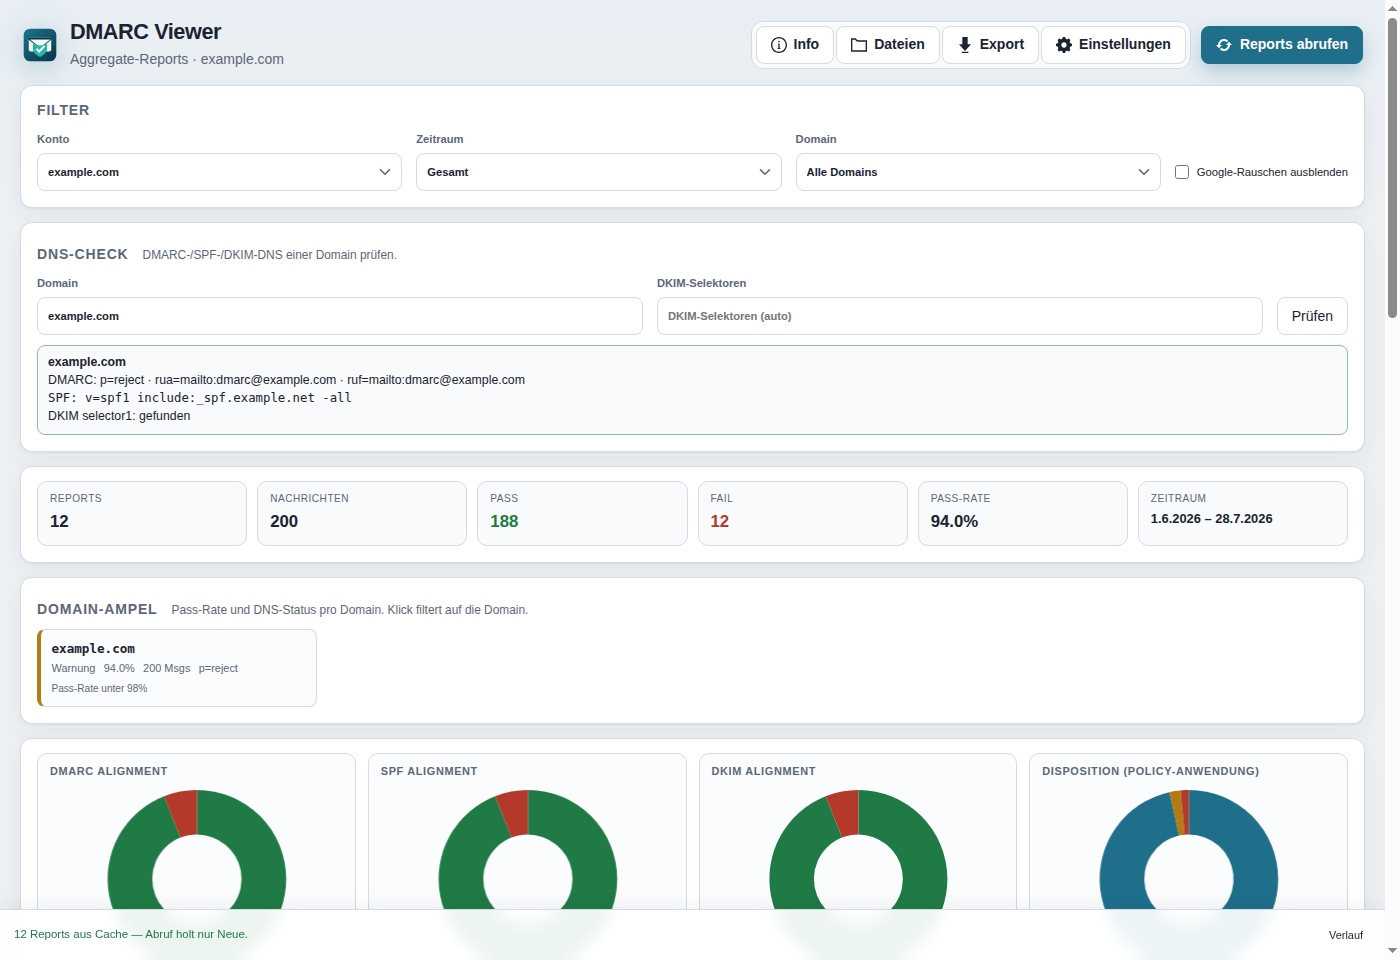
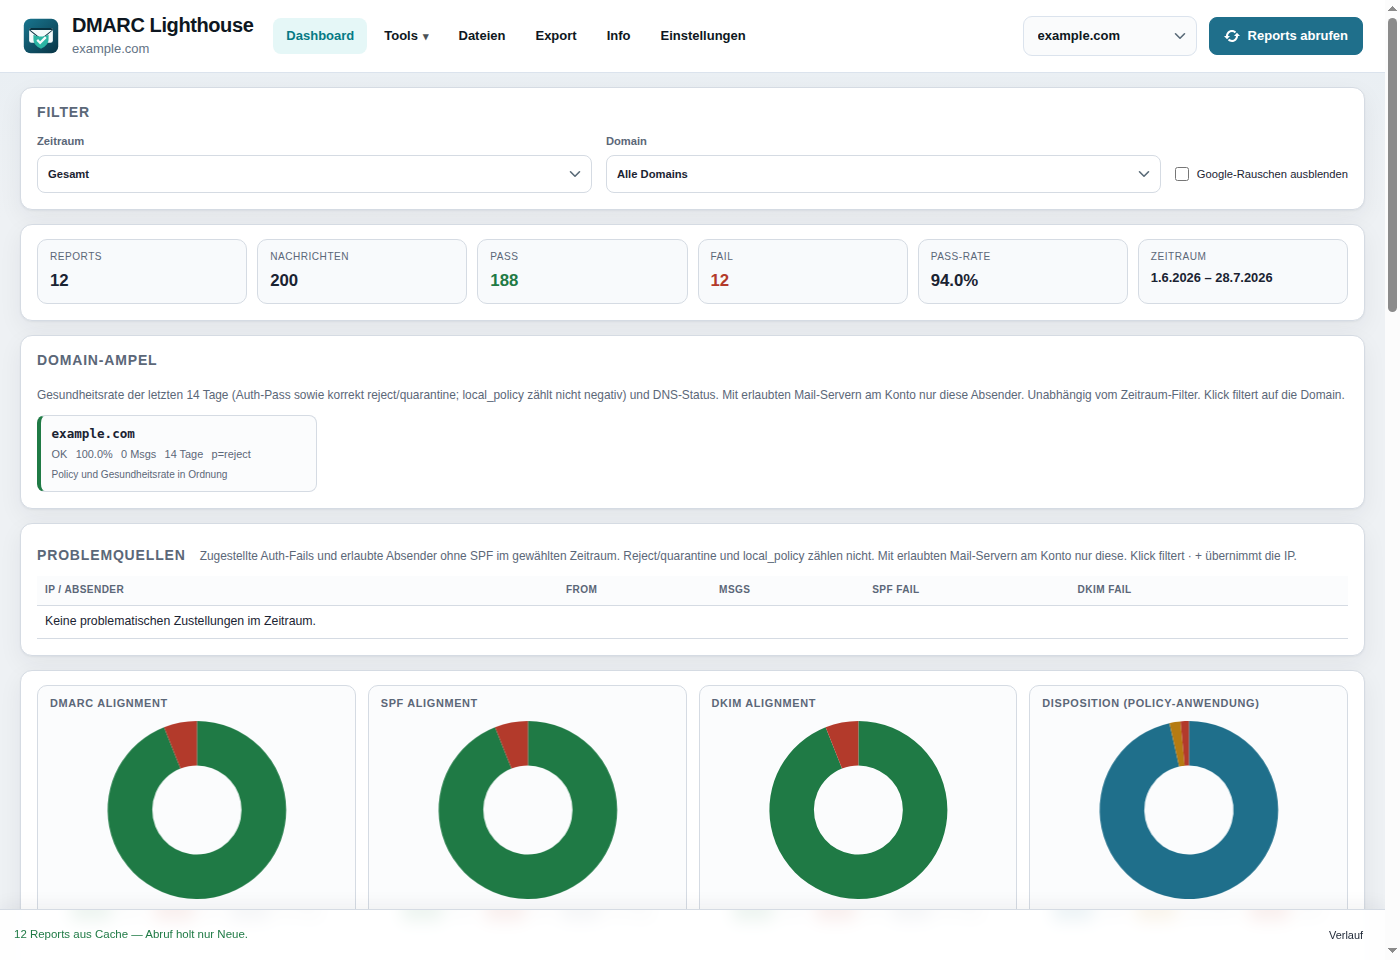
Release v1.0.16.
Ship account-management settings (setup vs. analysis options), refresh README screenshots, and bump the package version.

diff --git a/README.de.md b/README.de.md
@@ -70,7 +70,7 @@ Quell-IPs auf OpenStreetMap (GeoIP-Koordinaten); Klick auf einen Marker filtert 
 
 Mehrere IMAP-Konten, Abruf-/Archiv-Ordner, Auto-Abruf, Alerts, Anreicherung (GeoIP / DNSBL / RDAP), System-Tray und Sprache:
 
-![Einstellungen-Dialog mit IMAP-Konfiguration](docs/screenshots/settings.png)
+![Einstellungen-Dialog mit Konto-Verwaltung](docs/screenshots/settings.png)
 
 ---
 
@@ -137,13 +137,13 @@ Auto-Update greift in gepackten Builds (nicht im Dev-Modus). Portable-EXE und `.
    - Google Cloud Console → OAuth-Client-Typ „Desktop“
    - Microsoft Entra ID → App-Registrierung → öffentlicher Client, Redirect-URI `http://127.0.0.1:17893/oauth/callback`
 2. Client-IDs unter **Einstellungen → Abruf & Benachrichtigungen** eintragen oder `DMARC_GOOGLE_CLIENT_ID` / `DMARC_MS_CLIENT_ID` setzen.
-3. Beim IMAP-Konto **OAuth** wählen, speichern, dann **Mit Anbieter anmelden**.
+3. Unter **Konto-Verwaltung** → **Zugang einrichten** **OAuth** wählen, speichern, dann **Mit Anbieter anmelden**.
 
 ---
 
 ## Nutzung
 
-1. **Einstellungen** → **IMAP-Konto** öffnen, Anbieter/Host sowie App-Passwort oder OAuth setzen und speichern. Bei Bedarf weitere Konten anlegen.
+1. **Einstellungen** → **Konto-Verwaltung** öffnen, Anbieter/Host sowie App-Passwort oder OAuth setzen und speichern. Bei Bedarf weitere Konten anlegen.
 2. Optional eine kurze **Bezeichnung** setzen (leer = Domain der E-Mail-Adresse, z. B. `codemacher.de`). Bei Bedarf **Verbindung testen**. Unter **Abruf & Benachrichtigungen** OAuth-Client-IDs, Auto-Abruf, Alerts, System-Tray, Autostart und Sprache konfigurieren. Unter **Anreicherung** GeoLite2-Key/Download, optionalen Online-Geo-Fallback, DNSBL, Cloud-Ranges und RDAP einstellen.
 3. Im Hauptfenster **Reports abrufen** — oder XML/GZ/ZIP/EML per **Dateien** / Drag & Drop laden. Bei mehreren Konten über den Konto-Filter umschalten.
 4. Mit Zeitraum (inkl. benutzerdefiniert Von/Bis), Domain, Domain-Ampel oder per Klick auf Org-/IP-/From-Zeilen (oder Kartenmarker) eingrenzen; optional **Google-Rauschen ausblenden**, um Google-Report-Echo-Hops zu entfernen. Charts, Aggregate-Tabellen, Forensik-/RUF-Tabelle und Quellenkarte prüfen; bei Bedarf exportieren. Über ℹ an einer IP Geo/ASN/DNSBL und RDAP on-demand öffnen; einzelne Reports als ZIP laden.
@@ -236,7 +236,7 @@ GitHub Release (alle Plattformen via Actions): Tag wie `v1.0.7` pushen oder Work
 - Forensik-/RUF-Zeilen zeigen nur bereinigte Header — Nachrichteninhalte werden weder gespeichert noch angezeigt.
 - Nachrichten ohne gültigen DMARC-Anhang werden übersprungen und gezählt.
 - Einstellungen und Report-Caches liegen unter dem Electron-`userData`-Pfad (nicht im Repo); jedes IMAP-Konto hat einen eigenen Cache.
-- Cache leeren: Einstellungen → IMAP-Konto → **Cache dieses Kontos leeren** (nächster Abruf holt für dieses Konto wieder alles).
+- Cache leeren: Einstellungen → Konto-Verwaltung → **Cache dieses Kontos leeren** (nächster Abruf holt für dieses Konto wieder alles).
 - Optional können abgerufene Nachrichten als gelesen markiert (`\Seen`) und/oder nach dem Import in einen Archiv-Ordner verschoben werden.
 - Mit aktivem System-Tray blendet das Schließen des Fensters die App nur aus — vollständig beenden über **Beenden** im Tray-Menü. Das Tray-Icon zeigt eine Markierung, wenn neue Reports eingegangen sind, während das Fenster verborgen war; beim Öffnen verschwindet sie wieder.
 - Bestehende Einzelkonto-Einstellungen älterer Versionen werden automatisch ins Multi-Konto-Format migriert.

diff --git a/README.md b/README.md
@@ -70,7 +70,7 @@ Source IPs on OpenStreetMap (GeoIP coordinates); click a marker to filter by IP:
 
 Multiple IMAP accounts, fetch/archive folders, auto-fetch, alerts, enrichment (GeoIP / DNSBL / RDAP), system tray, and UI language:
 
-![Settings dialog with IMAP configuration](docs/screenshots/settings.png)
+![Settings dialog with account management](docs/screenshots/settings.png)
 
 ---
 
@@ -137,13 +137,13 @@ Auto-update works in packaged builds (not in dev mode). Portable EXE and `.deb` 
    - Google Cloud Console → OAuth client type “Desktop”
    - Microsoft Entra ID → App registration → public client, redirect URI `http://127.0.0.1:17893/oauth/callback`
 2. Paste the client IDs under **Settings → Fetch & notifications**, or set `DMARC_GOOGLE_CLIENT_ID` / `DMARC_MS_CLIENT_ID`.
-3. On the IMAP account, choose **OAuth**, save the account, then **Sign in with provider**.
+3. Under **Accounts** → **Set up access**, choose **OAuth**, save the account, then **Sign in with provider**.
 
 ---
 
 ## Usage
 
-1. Open **Settings** → **IMAP account**, set provider/host and either an app password or OAuth, then save. Add further accounts if needed.
+1. Open **Settings** → **Accounts**, set provider/host and either an app password or OAuth, then save. Add further accounts if needed.
 2. Optionally set a short **display name** (empty = email domain, e.g. `codemacher.de`). **Test connection** if needed. Under **Fetch & notifications**, configure OAuth client IDs, auto-fetch, alerts, system tray, autostart, and language. Under **Enrichment**, configure GeoLite2 license key / download, optional online Geo-IP fallback, DNSBL, cloud ranges, and RDAP.
 3. In the main window, **Fetch reports** — or load XML/GZ/ZIP/EML via **Files** / drag & drop. With multiple accounts, switch via the account filter.
 4. Narrow with date range (including custom From/To), domain, domain-health tiles, or by clicking a row in the org / IP / From tables (or a map marker); optionally enable **Hide Google noise** to drop Google report-echo hops. Review charts, aggregate tables, the forensic/RUF table, and the source map; export if needed. Open IP details (ℹ) for Geo/ASN/DNSBL and on-demand RDAP; download individual reports as ZIP.
@@ -236,7 +236,7 @@ GitHub release (all platforms via Actions): push a tag like `v1.0.7` or start th
 - Forensic/RUF rows show sanitized headers only — message bodies are never stored or displayed.
 - Messages without a valid DMARC attachment are skipped and counted.
 - Settings and report caches live under the Electron `userData` path (not in the repo); each IMAP account has its own cache.
-- Clear cache: Settings → IMAP account → **Clear this account’s cache** (the next fetch will retrieve everything again for that account).
+- Clear cache: Settings → Accounts → **Clear this account’s cache** (the next fetch will retrieve everything again for that account).
 - Optionally, fetched messages can be marked as read (`\Seen`) and/or moved to an archive folder after import.
 - With system tray enabled, closing the window hides the app instead of quitting — use **Quit** from the tray menu to exit fully. The tray icon shows a marker when new reports arrived while the window was hidden; opening the window clears it.
 - Existing single-account settings from older versions are migrated automatically to the multi-account format.
